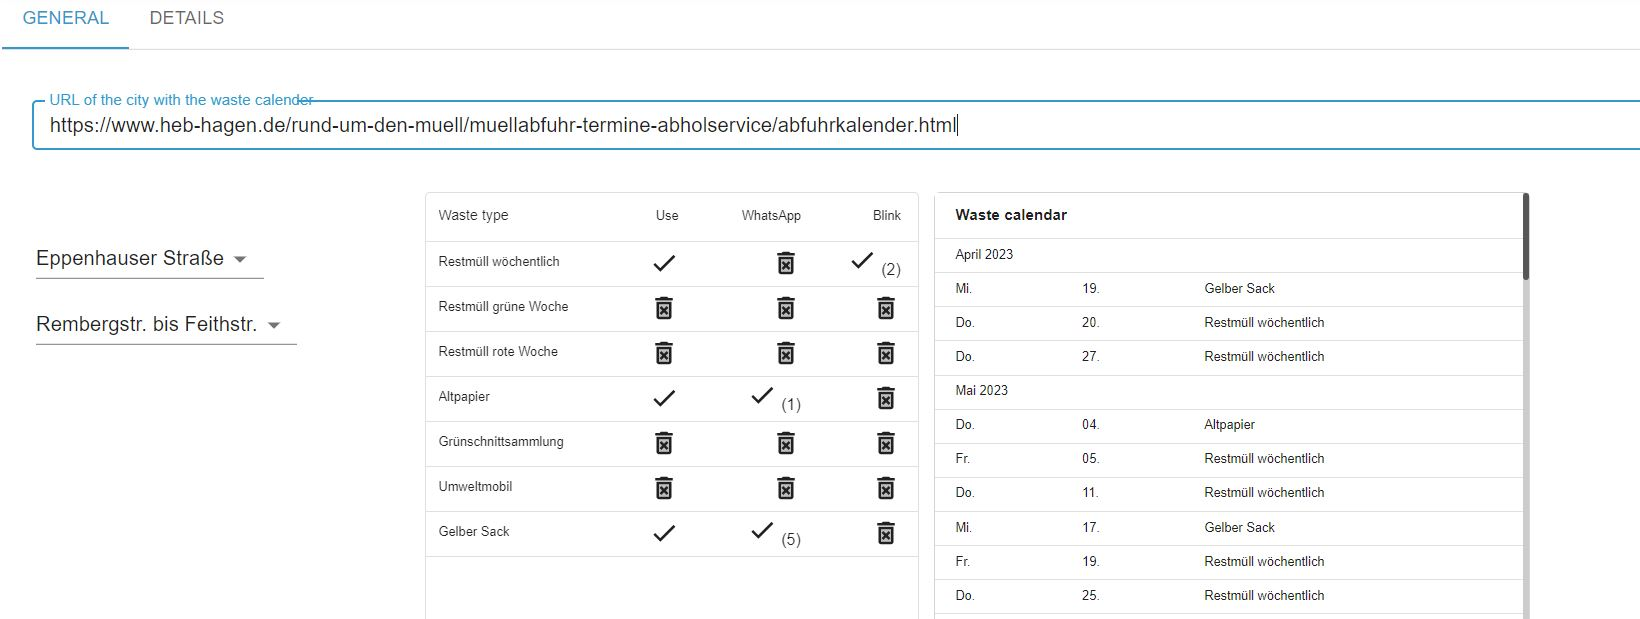
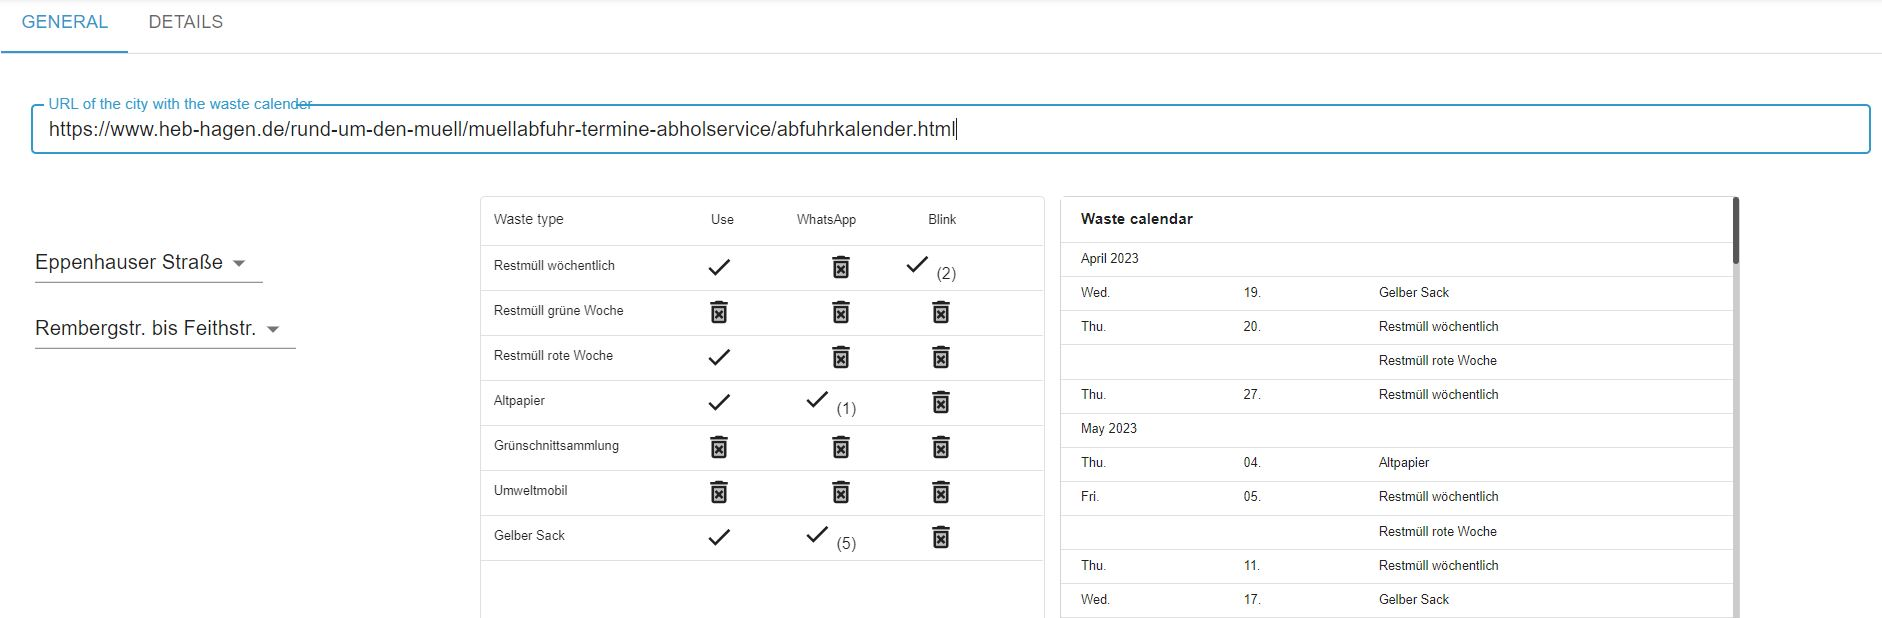
bug fixing (waste calendar was displayed in German although system language was set to English)

diff --git a/main.js b/main.js
@@ -136,8 +136,10 @@ class Abfallkalender extends utils.Adapter {
 			return await this.getForeignObjectAsync('system.config').then((result) => {
 				let language = result.common.language;
 				if (languages.findIndex((element) => element == systemLanguage) == -1) {
+					console.log('did not find language !!!!')
 					language = 'de';
 				}
+				console.log(`getSystemlanguage: ${language}`)
 				return language;
 			});
 		} catch {
@@ -146,6 +148,7 @@ class Abfallkalender extends utils.Adapter {
 
 	}
 	async initWasteTypes(message) {
+		const language = await this.getSystemLanguage();
 		return await getApiData
 			.getWasteCalendar(
 				{key: typeof message === 'undefined' ? this.config.key : message.key,
@@ -155,9 +158,9 @@ class Abfallkalender extends utils.Adapter {
 				houseNumber: typeof message === 'undefined' ? this.config.houseNumber : message.houseNumber,
 				wasteTypes: typeof message === 'undefined' ? this.config.wasteTypes : message.wasteTypes
 				},
-				await this.getTranslatedWeekdays(),
-				await this.getTranslatedMonths(),
-				systemLanguage,
+				await this.getTranslatedWeekdays(language),
+				await this.getTranslatedMonths(language),
+				language,
 			)
 			.then(async (response) => {
 				await this.createWasteTypesDataPoints(response);
@@ -563,22 +566,19 @@ class Abfallkalender extends utils.Adapter {
 		return obj;
 	}
 
-	async getTranslatedWeekdays() {
+	async getTranslatedWeekdays(language) {
 		/* tranforms all language entries for this datapoint name into one object
 			translation file "i18n.json" is saved in directory \lib
 		*/
-		if (typeof systemLanguage === 'undefined' || systemLanguage === ''){
-			systemLanguage = await this.getSystemLanguage();
-		}
-		console.log(`getTranslatedWeekdays with language ${systemLanguage}`)
+		console.log(`getTranslatedWeekdays with language ${language}`)
 		return [
-			i18n[systemLanguage]["Sunday"],
-			i18n[systemLanguage]["Monday"],
-			i18n[systemLanguage]["Tuesday"],
-			i18n[systemLanguage]["Wednesday"],
-			i18n[systemLanguage]["Thursday"],
-			i18n[systemLanguage]["Friday"],
-			i18n[systemLanguage]["Saturday"]
+			i18n[language]["Sunday"],
+			i18n[language]["Monday"],
+			i18n[language]["Tuesday"],
+			i18n[language]["Wednesday"],
+			i18n[language]["Thursday"],
+			i18n[language]["Friday"],
+			i18n[language]["Saturday"]
 		]
 	}
 
@@ -587,26 +587,24 @@ class Abfallkalender extends utils.Adapter {
 		return language;
 	}
 
-	async getTranslatedMonths() {
+	async getTranslatedMonths(language) {
 		/* tranforms all language entries for this datapoint name into one object
 			translation file "i18n.json" is saved in directory \lib
 		*/
-		if (typeof systemLanguage === 'undefined' || systemLanguage === ''){
-			systemLanguage = await this.getSystemLanguage();
-		}
+		console.log(`getTranslatedMonths with language ${language}`)
 		return [
-			i18n[systemLanguage]["January"],
-			i18n[systemLanguage]["February"],
-			i18n[systemLanguage]["March"],
-			i18n[systemLanguage]["April"],
-			i18n[systemLanguage]["May"],
-			i18n[systemLanguage]["June"],
-			i18n[systemLanguage]["July"],
-			i18n[systemLanguage]["August"],
-			i18n[systemLanguage]["September"],
-			i18n[systemLanguage]["October"],
-			i18n[systemLanguage]["November"],
-			i18n[systemLanguage]["December"]
+			i18n[language]["January"],
+			i18n[language]["February"],
+			i18n[language]["March"],
+			i18n[language]["April"],
+			i18n[language]["May"],
+			i18n[language]["June"],
+			i18n[language]["July"],
+			i18n[language]["August"],
+			i18n[language]["September"],
+			i18n[language]["October"],
+			i18n[language]["November"],
+			i18n[language]["December"]
 		]
 	}
 }

diff --git a/lib/getApiData.js b/lib/getApiData.js
@@ -62,12 +62,14 @@ async function getSelects(message) {
 		data.append('f_id_strasse', street);
 		action = 'auswahl_strasse_set';
 	}
+	/*
 	console.log(`START getSelects:`);
 	console.log(`getSelects - key ${key}`);
 	console.log(`getSelects - city ${city}`);
 	console.log(`getSelects - district ${district}`);
 	console.log(`getSelects - street ${street}`);
 	console.log(`getSelects - action ${action}`);
+	*/
 	const ret = { commune: '', district: '', type: '', selects: [], error: '' };
 	const config = {
 		method: 'post',
@@ -137,7 +139,7 @@ async function getSelects(message) {
 		console.error(ret.error);
 		console.error(err);
 	}
-	console.log(`returned ${ret.selects.length} selects`);
+	// console.log(`returned ${ret.selects.length} selects`);
 	return ret;
 }
 
